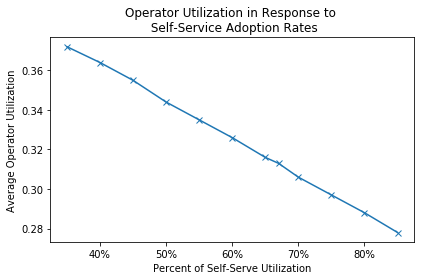
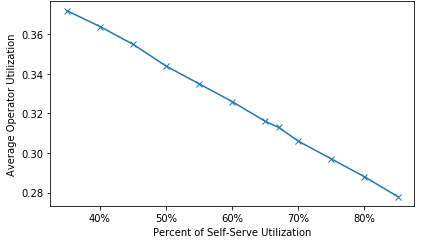
more

diff --git a/Call_Center_Paper.tex b/Call_Center_Paper.tex
@@ -12,15 +12,17 @@
     urlcolor=cyan,
 }
 \urlstyle{same}
-\usepackage[font={small,it}]{caption}
+\usepackage[font={tiny,it}]{caption}
 \usepackage{fancyvrb}
 \title{Analysis, Visualization, \& Simulation of South Bend Government Call Center}
-\author{John D. Bulger\\Valparaiso University}
+\author{John D. Bulger \& Karl R.B. Schmitt\\
+	Mathematics \& Statistics Department\\
+	Affiliate, Computing \& Information Sciences Department
+	\\Valparaiso University, Valparaiso, IN}
 \date{March 10, 2019}
 
 	\begin{document}
 \maketitle
-
 \section{Introduction}
 The city of South Bend, located in northern Indiana, established a citizen-accessible call center in February 2013.  It addresses almost every aspect of city-citizen interaction, including waste pick-up and removal, water billing and disconnections, and code enforcement.  By serving as a central hub for communication, the call center is able to consolidate a substantial amount of data regarding citizens as consumers.  This data is available on South Bend's open data portal at \textit{https://data-southbend.opendata.arcgis.com}.
 
@@ -53,59 +55,69 @@ After loading the data, it was inspected for missing data and reasonableness.  T
 
 	\subsection{Analytical Methods}
 	
+\paragraph{Call volume by month} was analyzed using the daily data, which provides aggregate totals by day for a 2-year period. The relevant data was manipulated by taking the mean of the daily call volume for every record in each month.  As an exercise in thoroughness, these findings were subjected to a two-sided t-test for statistical significance.  For the purposes of this test, the null hypothesis stated that “the two months have identical expected values."  For the null hypothesis to be disproved, a standard threshold p-value of 0.05 was used.
+
+\paragraph{Call volume by day of the week} was analyzed using data contained in two files: daily data and topic data.  The first conveniently had an attribute consisting of an integer corresponding to a weekday.  The topic data included a date of call, but it did not have a direct day attribute.  This attributed was created with the same format as the daily data, and the calls corresponding to each date were counted.  The two dataframes were then concatenated, providing the total number of calls for each date.  Once grouped by weekday, this yielded a distribution of total calls for each day of the week over a five year period.  This data was also subjected to a t-test, in order to determine if the days statistically differed in calls received from each other.  As in the t-test for call volume by month, a 0.05 threshold was used for the p-value.
+
+\paragraph{Call volume \& duration by department} were analyzed using the topic data, as the data contained recent and complete information regarding departments.  The calls were aggregated by department, using total calls received and mean duration in order to compare departments.
+
+\paragraph{Call volume \& duration by topic} were analyzed from the topic data as well.  Among this dataset, 426 unique call topics existed.  The calls were grouped by topic using total calls received and mean duration in order to facilitate comparison.
 
 
+	\subsection{Analytical Findings}
+
+\paragraph{Call volume by month} can be observed in the boxplots in Figure 1.  Months with the highest average daily call volumes were July, April, June, and May (in that order).  March, interestingly, has the lowest average volume by a large margin.  This is especially intriguing since it is immediately prior to what can be seen as the “busy season".  The heatmap in Figure 2 shows the resulting p-value from the two tailed t-test between each pair of months' distributions.  An interesting point that appears is that June's call volumes are not statistically different from those in April.  March, however, has a statistically different daily average than every other month.
 
 
+	\begin{figure}
+	\includegraphics[scale=.4]{monthly_boxplot.png}
+	\caption{Distribution of average daily call volume by month}
+	\end{figure}
+
+	\begin{figure}
+	\includegraphics[scale=.4]{Daily_Heatmap.png}
+	\caption{P-values resulting from t-test on daily call volume by month}
+	\end{figure}
+
+\paragraph{Call Volume by day of the week} can be compared in the boxplots in Figure 3.  Upon evaluation, call volume trends highest on Monday, then steadily decreases as the work week continues on.  The call center is not open on the weekend, so this could be a reason for the higher number of calls on Monday and Tuesday. Presumably, customers would call early in the week to address any issues that arose over the weekend.  A heatmap is shown in Figure 4, which emphasizes the statistically different mean for each pairing of weekdays.  The comparison of Wednesday and Thursday, according to this test, is the only pairing that does not exhibit statistically significant different call distribution from each other.
+
+	\begin{figure}
+	\includegraphics[scale=.4]{Daily_Call_Boxplot.png}
+	\caption{Distribution of average daily call volume by weekday}
+	\end{figure}
+
+	\begin{figure}
+	\includegraphics[scale=.4]{Heatmap.png}
+	\caption{P-values resulting from t-test on daily call volume by day of the week}
+	\end{figure}
+
+\paragraph{Calls by department} were analyzed by two measures:  average duration and total volume.  Departments such as Solid Waste and Water Works had the highest call volumes, while Code Enforcement and the Mayor's Office had the longest average durations.  Given this incongruency, it is not clear where the call center's resources should be focused.  As a more direct approach to the measure of total call volume, the total departmental call times were calculated.  This can be visualized in Figure 5.
+
+	\begin{figure}
+	\includegraphics[scale=.4]{InkedCalls_Department_sim_LI.jpg}
+	\caption{Total time spent on calls by top departments}
+	\end{figure}
+
+\paragraph{Calls by topic} were also analyzed by duration and volume.  When ranked by average duration, many obscure topics rose to the extremes.  Of the top 20 topics with the shortest duration, 19 consisted of less than three total calls.  Viewed as a percentage of the total 202,500 call dataset, these calls are such a small proportion that it would provide marginal insight to the city.  A similar, though less extreme, situation occurred when viewing topics with by duration.  This is be illustrated through a quantile-quantile plot for individual topics with percentile score for both average duration and total volume serving as the axes, which can be seen in Figure 6.
+
+\par
+In light of this exploration, it was determined that the most important results for the city to see included only topics composing a significant proportion of total calls.  When ranking by duration, only topics with total volume above the first quartile of total call volume were included, yielding results that could be viewed as more relevant to management.  Topics with long durations seemed to be centralized around complaints and billing issues, and topics with a short mean duration were mostly general information inquiries.  When analyzed in this manner, there is a 195 second difference between the mean durations of the longest and shortest topics.
+
+\par
+Topic volume was dominated by topics within many of the top departments identified earlier in Figure 1.  The top two highest volume topics, by a large margin, were “Miscellaneous Trash Information” and “Water Miscellaneous”.  This is reflective of positions of Solid Waste and Water Works in the departmental analysis.  In order to allow the city to effectively visualize this tandem effect, topics within the some of the busiest departments were plotted in an interactive scatterplot, as seen in Figure 7.  In this visualization, average call duration and total call volume serve as the axis, with glyphs used to differentiate between departments.  As the inset image illustrates, a zoomed view is necessary to more clearly see relationships between topics.  The Bokeh library allowed for this ability to be codified into the plot.
 
 
+	\begin{figure}
+	\includegraphics[scale=.4]{new_q-q_plot.png}
+	\caption{\textbf{Quantile-Quantile Plot of Topics: Call Volume by Call Duration} \\
+	Illustration of individual topics' disparity between call duration and quantity}
+	\end{figure}
 
-
-
-
-
-
-
-
-
-
-
-
-
-
-
-
-
-
-
-
-
-
-
-
-
-
-
-
-
-
-
-
-
-
-
-
-
-
-
-
-
-
-
-
-
-
-
+	\begin{figure}
+	\includegraphics[scale=.6]{scatter_ready.png}
+	\caption{\textbf{Scatterplot of Call Volume by Topic: The Busiest Departments} \\
+		The diamond is not plotted to scale and represents two solid waste topics that exceeded the bounds of the plot}
+	\end{figure}
 
 
 
@@ -115,8 +127,30 @@ After loading the data, it was inspected for missing data and reasonableness.  T
 \section{Visualization}
 
 
+The above analysis yielded results showing trends for the call center by time, department, and topic.  The call center, however, did not have any specific questions for which it was seeking answers.  Instead, this project was geared towards discovering trends, patterns, and insights; these were then provided to the city so that they could formulate specific questions based on the story that was told by this data.  In order to provide this to city management, a visualization dashboard was chosen as the most effective medium.  The Bokeh package was used to create interactive visualizations and allowed the final product to be packaged into a HTML file and sent to the call center management.  In all, the dashboard includes visualizations of:
 
-\section{Mathematical Model}
+	\begin{itemize}
+		\item Pie chart of total call time by department
+		\item Histogram of call volume by day of week, overlaid, with legend providing hide/show capabilities
+		\item Bar charts of topics with longest and shortest average call durations
+		\item Jitterplot of call volume by topic within top departments
+		\item Bar chart of call volume by month
+	\end{itemize}
+
+These charts all utilize various implementations of Bokeh tools, such as HoverTool, BoxZoom, Pan, and checkbox interactivity.  By incorporating these interactions into the dashboard, the result is a more dynamic, engaging product that is simple to interact with for employees outside of the technical fields.  An image of the final dashboard can be seen in Figure 8, while a live link can be accessed at \textit{http://jdbul33.github.io/CallCenterDashboard.html}.
+
+	\begin{figure}
+	\includegraphics[scale=.4]{Dashboard.jpg}
+	\caption{Static image of HTML-based dashboard delivered to the City of South Bend}
+	\end{figure}
+
+
+
+\section{Mathematical Model \& Simulation}
+
+This data analysis laid the groundwork for a model and sim xxxxxxxxxxx.  ARena, etc
+%fix all this stuffs
+
 
 	\subsection{Base Model}
 The core model structure is based off the work of Mandelbaum in 2001\cite{mandelbaum}.  In his highly esteemed text, Mandelbaum lays out the basic schematic of a call center model.  His model illustrates the possible flow of a call, starting with its arrival until disposal, be that as a lost call or having completed successfully.  While simplistic by nature, the model covers all of the basic aspects of a call center in a sensible format that can easily by applied in Arena.  This model can be seen in Figure 2.  
@@ -129,7 +163,7 @@ The core model structure is based off the work of Mandelbaum in 2001\cite{mandel
 Mandelbaum's model identifies one avenue for arrivals (incoming calls) and three methods of disposal(lost calls due to busy signal, lost calls due to wait time, and completed calls).  It can be seen that the lost calls due to busy signals and the lost calls due to wait time both have retrial loops built in where some customers may immediately try to call into the system again and are treated as new arrivals for the sake of the simulation.  Completed calls also have the option to ``return", where they would immediately re-enter the system for whatever reason (perhaps an unresolved issue).  There is a single centralized queue before the calls are distributed among resources (operators).  At its core, this is a condensed high-level view of a call center model, specifically designed so that it could easily be expanded as needed for specific analyses.
 
 \subsection{Analysis-Specific Model}
-The model used for this analysis expands a great deal on the core model identified by Mandelbaum.  It adds three key features that the original model omits: voicemails, operator breaks, and an alternate call flow for supervisor assistance.  Additionally, calls are assigned key attributes that determine their specific flow and timing throughout the simulation.  These key attributes include topic, language, and priority.  The hypothetical self-service option was added on to this expanded model for the relevant analysis.
+The model created for this analysis expands a great deal on the core model identified by Mandelbaum.  It adds three key features that are omitted in the original model: voicemails, operator breaks, and an alternate call flow for supervisor assistance.  Additionally, calls are assigned key attributes that determine their specific flow and timing throughout the simulation.  These key attributes include topic, language, and priority.  The hypothetical self-service option was added on to this expanded model for the relevant analysis.
 
 	\paragraph{Voicemails}
 	
@@ -150,12 +184,6 @@ Calls are assigned a topic based on the distribution of topics in historical cal
 	\paragraph{Self-Service}
 	
 One of the purposes of this project was to evaluate the impact of adding a self-service option that would eliminate the need to speak to an agent for certain call topics.  This was added as an extension of the base model, but was run separately from the base model for the use of direct comparison of the results.  Depending on the assigned call topic, callers have the option to self-service, with multiple routes leading to the agent queue in the event the caller has trouble with self-service and needs an operator.
-
-
-\begin{figure}[h]
-	\includegraphics[scale=.53]{Calls_Department_sim.png}
-	\caption{Call distribution by department from source data}
-\end{figure}
 
 	\paragraph{Language}
 
@@ -181,48 +209,8 @@ The model was also verified by ensuring the output matched the estimated results
 	
 The model and simulation's results were ultimately validated using historical data.  Since several years' worth of call center data was available, the results of the base simulation were compared to this.  The number of call arrivals was created from the historical data, so this can be compared as well.  The operator schedule was provided by call center management, allowing for actual validation for these values.  Historical data also exists for percent of calls abandoned, which was also be directly compared.
 	
-\section{Simulation}
 
-	\subsection{Method}
-	
-A call center is modeled as a discrete event model, leading to the logical choice of Arena for this simulation.  Arena excels in creating and monitoring entities, while providing a visual representation of their flow through a system.  Arena allows for efficient statistic and metric collection, which can be organized and analyzed to answer any questions initially posed for the simulation.
-
-\par
-
-Arena also features built-in modules that vastly simplify actions that would need to intricately programmed in a high-level language.  A prime example of this is Arena's schedule option, which is a built-in option that was leveraged for two aspects of this project:  the call arrival schedule and operator schedule.  By using this included module, the simulation was able to be developed as close to ``real-life" as possible in these areas.
-	
-	\subsection{Attributes \& Resources}
-
-Three main attributes are assigned to entities upon entry to the system:  topic, language, and priority.  Topic serves as a determinant of the call duration distribution, and is pulled from historical data.  Language is assigned to be either English or Spanish, and the distribution is based on the South Bend Hispanic population percentage.  While other residents surely speak other native languages, the call center only deals internally with English or Spanish, and this simulation is set up to reflect this.  Priority is assigned as a ``medium" for incoming calls, ``low" for voicemails to be returned, and ``high" for calls routed to or from a supervisor.
-
-\par
-
-Two resources exist in this call center model:  call center liaisons (operators) and supervisors.  The operator schedule (and thus total resources at any given simulation time) was based on the historical data as opposed to being an estimated parameter.  This schedule can be seen in Figure 4.  In keeping with typical call center model processes as described by Zhang, these operators are treated as having the same skill level, and thus do not influence the handling of a call \cite{zhang}.  Supervisors handle calls identified as problematic, but are again treated as if they are of the same skill level.  Operator lunches and personal breaks are also based on the schedule provided.
-
-	\begin{figure}[h]
-		\includegraphics[scale=.3]{schedule2.jpg}
-		\caption{Call center operator schedule}
-	\end{figure}
-	
-	\subsection{Parameters}
-	
-	
-	This simulation utilizes an accurate representation of arrivals as calculated from the aforementioned open-source data.  Mean call arrivals were identified down to the hour for each weekday.  This allows for the simulation to not only pick up on historical call patterns by hour, but also the differences between each day.  A Poisson distribution, broken down by this hourly data, was used to model the arrivals, allowing for the arrivals to be scheduled as such in Arena.  This will base the actual volume of calls in line with prior historical trends, as opposed to applying a rough blanket estimate.
-	
-	\par
-	
-	Several other estimated parameters exist in this model and simulation.  These included callers getting a busy signal (and the corresponding retry rate), callers who experience a problem and need to speak with a supervisor, and whether calls who spoke to a supervisor need to be transferred back to an agent to complete a task.  These parameters were estimated through the use of research and experimentation in an effort to represent the center as closely as possible, since no data existed for these.  However, they were set at levels where total calls abandoned and handled were similar to the historical data.
-	
-	\subsection{Run Settings \& Replications}
-	
-	 The call center is open five days a week, from 7:30 AM to 5:30 PM.  Therefore, the simulation was run for 100 replications of five ten-hour days.  Each replication serves to represent an ``average" week for the call center.  In this case, 100 replications should be enough in order to obtain a reliable simuation of the call center.
-	 
-	 
-	\subsection{Adjustments for Self-Serve Option Model}
-	
-	The base model was expanded upon into a second model in order to evaluate the effectiveness of adding a self-service alternative before speaking to an agent.  The ``route" for calls to self-service utilized empirical research regarding consumer attitudes for automated systems.  A survey by Nuance Enterprise suggests that up to 75\% of consumers see self-service as a convenient option when available while 67\% said they preferred self-service over dealing with a company representative \cite{webblog}.  The simulation utilizes the 67\% preference to determine the number of call arrivals that will be routed into self-service options, given the customer has been assigned a topic that is self-serviceable.  A self-serviceable topic is defined as a percentage of callers with a ``Water Works" and ``Solid Waste" topic, since many of these calls can be handled via a touch-tone or voice system.  All remaining calls were routed to the operator queue discussed in the original model.
-
-\section{Experimentation \& Results}
+\section{Simulation \& Results}
 
 	\subsection{Verification \& Validation}
 	
@@ -243,11 +231,11 @@ Two resources exist in this call center model:  call center liaisons (operators)
 	
 	\par
 	
-	The simulation was run with the base operator schedule, -1, +1, and +2.  Calls abandoned and operator utilization can be seen in Figure 5.  Both of these metrics reacted as expected, with less hang-ups and lower operator utilization as the number of operators increased.  Wait time was an interesting metric, in that it did not vary significantly at all with the change in operators, varying by 0.02 hours.  This can most likely be attributed to the customer patience parameter; as callers hang up, the queue advances.  It seems that over replications, this effect evens out regardless of the number of operators (within reason).
+	The simulation was run with the base operator schedule, -1, +1, and +2.  Calls abandoned and operator utilization can be seen in Figure 10.  Both of these metrics reacted as expected, with less hang-ups and lower operator utilization as the number of operators increased.  Wait time was an interesting metric, in that it did not vary significantly at all with the change in operators, varying by 0.02 hours.  This can most likely be attributed to the customer patience parameter; as callers hang up, the queue advances.  It seems that over replications, this effect evens out regardless of the number of operators (within reason).
 	
 	\begin{figure}[h]
-		\includegraphics[scale=.5]{num_ops_plot.png}
-		\caption{}
+		\includegraphics[scale=.5]{Inkednum_ops_plot_LI.jpg}
+		\caption{Average daily number of abandoned calls and operator utilization percentage at different staffing levels}
 	\end{figure}
 	
 	
@@ -261,7 +249,7 @@ Two resources exist in this call center model:  call center liaisons (operators)
 	
 	\par
 	
-	Overall, this experimentation worked as expected.  As the number of callers who chose the self-service option increased, the wait time, queue length, and agent utilization all experienced linear decreases.  A visualization of the queue statistics can be seen in Figure 6.  Furthermore, the decrease in operator utilization can be seen in Figure 7.  It should be noted that in these trials, the graphs do show a definitive decrease in all metrics.
+	Overall, this experimentation worked as expected.  As the number of callers who chose the self-service option increased, the wait time, queue length, and agent utilization all experienced linear decreases.  A visualization of the queue statistics can be seen in Figure 11.  Furthermore, the decrease in operator utilization can be seen in Figure 12.  It should be noted that in these trials, the graphs do show a definitive decrease in all metrics.
 	
 	\par
 	
@@ -269,13 +257,13 @@ Two resources exist in this call center model:  call center liaisons (operators)
 
 \begin{figure}[h]
 	\includegraphics[scale=.5]{self_serve_results.png}
-	\caption{}
+	\caption{Operator waiting queue statistics as a function of self-service adoption rates}
 \end{figure}
 
 
 \begin{figure}[h]
 	\includegraphics[scale=.5]{op_self_serve.png}
-	\caption{}
+	\caption{Operator utilization in response to self-service adoption rates}
 \end{figure}
 
 
@@ -293,27 +281,16 @@ Secondly, the self-serve simulation experiment shows that operator utilization d
 Both of these experiments include estimated parameters, particularly the hypothetical self-service model.  As a result, neither of these experiments definitively answer/attempt to answer any of these questions until they are compared to internal data for accuracy.  Such data would replace estimates with more accurate numbers and distributions; then, a simulation could be run for a definitive question.
 
 
+
+
+
+
+
+
+
 \section{Conclusion}
 
 Overall, this analysis resulted in the building of an accurate, historically validated model that was modified and used to provide results to two main questions.  While call centers are a frequently modeled system, this project was unique since it is based on an actual, operating center.  The inclusion of as much historical data as possible leads this analysis from the realm of theoretical into a practical and useful application.  The primary goal of this project was to create a model as similar as possible to the actual call center; this was achieved.  The questions explored, while simplistic in nature, would surely be of interest to city officials when it comes to budgets and annual planning.
-
-
-	\subsection{Challenges}
-
-	This model development and simulation presented two main challenges that had to be overcome in order to produce a successful project.  First, while many parameters for the model were either contained in or could be deduced from the historical data, several were not.  These included customer patience levels, number of supervisors (and the number of calls they handled), and the number of voicemails necessitating a return call.  Determining appropriate levels for these parameters involved some trial and error, and perhaps may not still be completely accurate.  However, the confidence held in the call arrival rate, duration distributions, and operator schedule is exceptionally strong due to this historical data analysis.  Since these components are arguably the most important aspects of the call center, the model is not particularly sensitive to the estimated parameters.
-	
-	\par
-	
-	A second main challenge was determining when the model's complexity was sufficient in order to explore the posed questions and avoiding an overly-complicated or unbalanced model.  With an actual call center as the subject, this model could have easily become so complicated as to be inefficient and more error-prone (harder to test and debug).  A prime example of this is the assignment of call topics to determine the call duration distribution.  Twenty-six departments, each with their own duration statistics, exist in the historical data.  However, the final model incorporates only the six most common departmental topics, with the nineteen others aggregated as a weighted average.  While it is tempting to replicate the historical data as accurately as possible, including all twenty-six options with their statistics would have created an unnecessarily complex section of the model, leading to imbalance.  This would have made verification of the corresponding modules nearly impossible.
-	
-	\par
-	
-	These two challenges were successfully overcome in the development of the model and its corresponding simulation.  While an imperfect representation of the actual call center, like any model, it accurately captures the most important aspects in order to develop worthwhile results.  With time, more challenges could be overcome and identified, but the current model functions well for the level of the desired analysis given the information and data available.
-
-	\subsection{Opportunities for Further Study}
-
-	This model lays a successful base for future analysis or study.  If more data, beyond the publicly available data, was to be acquired, the model and its parameters could be defined even more accurately.  Similarly, if further time was dedicated, the model could be designed to represent a complete year for the call center, including holidays, seasonal call and topic flucuations, and possibly fluctuating staffing levels.  However, the work to create such a specific model would require a goal that has not been defined.  The current model will be provided to the city of South Bend.  Since Arena is publicly available, the business analytics department could perhaps retain the model and build on it/use it as the need arises.
-
 
 
 

diff --git a/Abstract_Only.tex b/Abstract_Only.tex
@@ -1,0 +1,45 @@
+\documentclass[12pt]{article}
+\usepackage[margin=1in]{geometry}
+\usepackage[utf8]{inputenc}
+\usepackage{graphicx}
+\usepackage{pdfpages}
+\usepackage{hyperref}
+\usepackage{setspace}
+\doublespacing
+\graphicspath{ {./Figures/} }
+\hypersetup{
+	colorlinks=true,
+	linkcolor=blue,
+	filecolor=magenta,      
+	urlcolor=cyan,
+}
+\urlstyle{same}
+\usepackage[font={tiny,it}]{caption}
+\usepackage{fancyvrb}
+\title{Analysis, Visualization, \& Simulation of South Bend Government Call Center}
+\author{John D. Bulger \& Karl R.B. Schmitt\\
+	Mathematics \& Statistics Department\\
+	Affiliate, Computing \& Information Sciences Department
+	\\Valparaiso University, Valparaiso, IN}
+\date{March 10, 2019}
+
+
+
+
+%\setlength\parindent{0pt}
+
+
+
+\begin{document}
+	\maketitle
+	
+\section*{Abstract}
+
+The city of South Bend, Indiana operates a call center that serves as a primary point of contact for citizens, and it handles topics for nearly all of the city's departments.  An open data portal, maintained by the city, contains several years’ worth of information.  An analysis of this data was conducted using Python.  The data was analyzed for patterns by time of year, department, and topics with varying methods.  The cleaned, manipulated, and explored data was then developed into an interactive dashboard using the Bokeh library.  An interactive HTML file was distributed to the city, which can then be utilized, modified, and possibly connected directly to the data source.  This analysis discovered insights in areas of interest to the city.  July was found to be the most voluminous month, and this was shown to be statistically significant by using a two-sided t-test.  Additionally, the departments of Solid Waste and Water Works, along with many of their sub-topics, had some of the highest call volumes.  When calls were analyzed by duration, however, many lower volume topics were shown to take longer to resolve.
+
+\par
+
+This background and research was then developed into a model and run as a simulation.  Historical data such as arrivals, call topic distributions, and call durations were used in construction of the simulation's parameters.  Additionally, call center management provided information such as staffing levels, hours worked, and operator breaks.  This allowed an accurate model to be constructed, which was then run through simulations to explore two main areas of inquiry:  adequacy of staffing levels and the effect addition of a self-service line with no operator interaction.  The results showed that the call center could explore lowering their staffing by one full-time operator with a minimal effect on caller satisfaction, and that the addition of a self-service option could significantly reduce queue time and allow for a much smaller full-time staff.
+
+ 
+\end{document}
